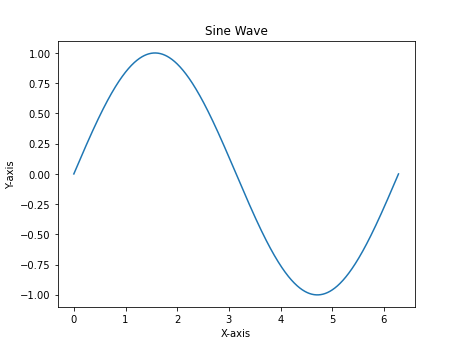
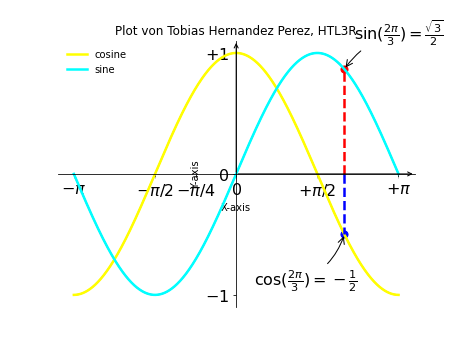
ue03 plot, aufgaben + arrows (kinda)

diff --git a/python/ue03_plot/plot1.py b/python/ue03_plot/plot1.py
@@ -1,29 +1,79 @@
-import numpy as np
-import matplotlib.pyplot as plt
 import math
 
-PI = math.pi
+import matplotlib.pyplot as plt
+import numpy as np
 
-# Generate x values from 0 to 2*pi
-x = np.linspace(0, 2 * np.pi, 1000)
+# Generate x values from -pi to +pi
+PI = np.pi
+x = np.linspace(-PI, PI, 1000)
 
 # Generate y values using the sine function
-y = np.sin(x)
+y_sin = np.sin(x)
+y_cos = np.cos(x)
 
 # Plot the sine wave
-plt.plot(x, y)
+plt.plot(x, y_sin)
+plt.plot(x, y_cos)
 
 # Set labels and title
 plt.xlabel('X-axis')
 plt.ylabel('Y-axis')
-plt.title('Sine Wave')
+plt.title('Plot von Tobias Hernandez Perez, HTL3R')
+
+# Spacing
+plt.xlim(min(x) * 1.1, max(x) * 1.1)
+plt.ylim(min(y_sin) * 1.1, max(y_sin) * 1.1)
+
+# Markierungen
+plt.xticks([-PI, -PI / 2, 0, PI / 4, PI / 2, PI])
+plt.yticks([-1, 0, +1])
+
+# LaTeX Ticks
+plt.xticks([-PI, -PI / 2, -PI / 4, 0, PI / 2, PI],
+           [r'$-\pi$', r'$-\pi/2$', r'$-\pi/4$', r'$0$', r'$+\pi/2$', r'$+\pi$'])
+plt.yticks([-1, 0, +1],
+           [r'$-1$', r'$0$', r'$+1$'])
+
+# Legende
+plt.plot(x, y_cos, color="yellow", linewidth=2.5, linestyle="-", label="cosine")
+plt.plot(x, y_sin, color="cyan", linewidth=2.5, linestyle="-", label="sine")
+plt.legend(loc='upper left', frameon=False)
+
+# Achsen
+ax = plt.gca()
+ax.spines['right'].set_color('none')
+ax.spines['top'].set_color('none')
+ax.xaxis.set_ticks_position('bottom')
+ax.spines['bottom'].set_position(('data', 0))
+ax.yaxis.set_ticks_position('left')
+ax.spines['left'].set_position(('data', 0))
+
+# Besonders Kennzeichnen
+t = 2 * PI / 3
+plt.plot([t, t], [0, math.cos(t)], color='blue', linewidth=2.5, linestyle="--")
+plt.scatter([t, ], [math.cos(t), ], 50, color='blue')
+plt.annotate(r'$\sin(\frac{2\pi}{3})=\frac{\sqrt{3}}{2}$',
+             xy=(t, math.sin(t)), xycoords='data',
+             xytext=(+10, +30), textcoords='offset points', fontsize=16,
+             arrowprops=dict(arrowstyle="->", connectionstyle="arc3,rad=.2"))
+plt.plot([t, t], [0, math.sin(t)], color='red', linewidth=2.5, linestyle="--")
+plt.scatter([t, ], [math.sin(t), ], 50, color='red')
+plt.annotate(r'$\cos(\frac{2\pi}{3})=-\frac{1}{2}$',
+             xy=(t, math.cos(t)), xycoords='data',
+             xytext=(-90, -50), textcoords='offset points', fontsize=16,
+             arrowprops=dict(arrowstyle="->", connectionstyle="arc3,rad=.2"))
+
+# Bessere Sichtbarkeit der Ticks
+for label in ax.get_xticklabels() + ax.get_yticklabels():
+    label.set_fontsize(16)
+    label.set_bbox(dict(facecolor='white', edgecolor='None', alpha=0.65))
+
+ax.set_axisbelow(True)
+
+# Pfeile (kinda)
+ax.annotate("", xy=(max(x) * 1.1, 0), xytext=(0, 0), arrowprops=dict(arrowstyle="->"))
+ax.annotate("", xy=(0, max(y_sin) * 1.1), xytext=(0, 0), arrowprops=dict(arrowstyle="->"))
 
 # Show the plot
 plt.savefig("plot1_hernandezperez.png", dpi=72)
 plt.show()
-
-# TODO sorry aber warum funktioniert KEIN Code in der Angabe?
-# -> ist der nur da um Schueler*innen zu verwirren, ernsthaft!??!?!?!
-# plt.plot(X, C, color="blue", linewidth=2.5, linestyle="-")
-# plt.plot(X, S, color="red", linewidth=2.5, linestyle="-")
-
